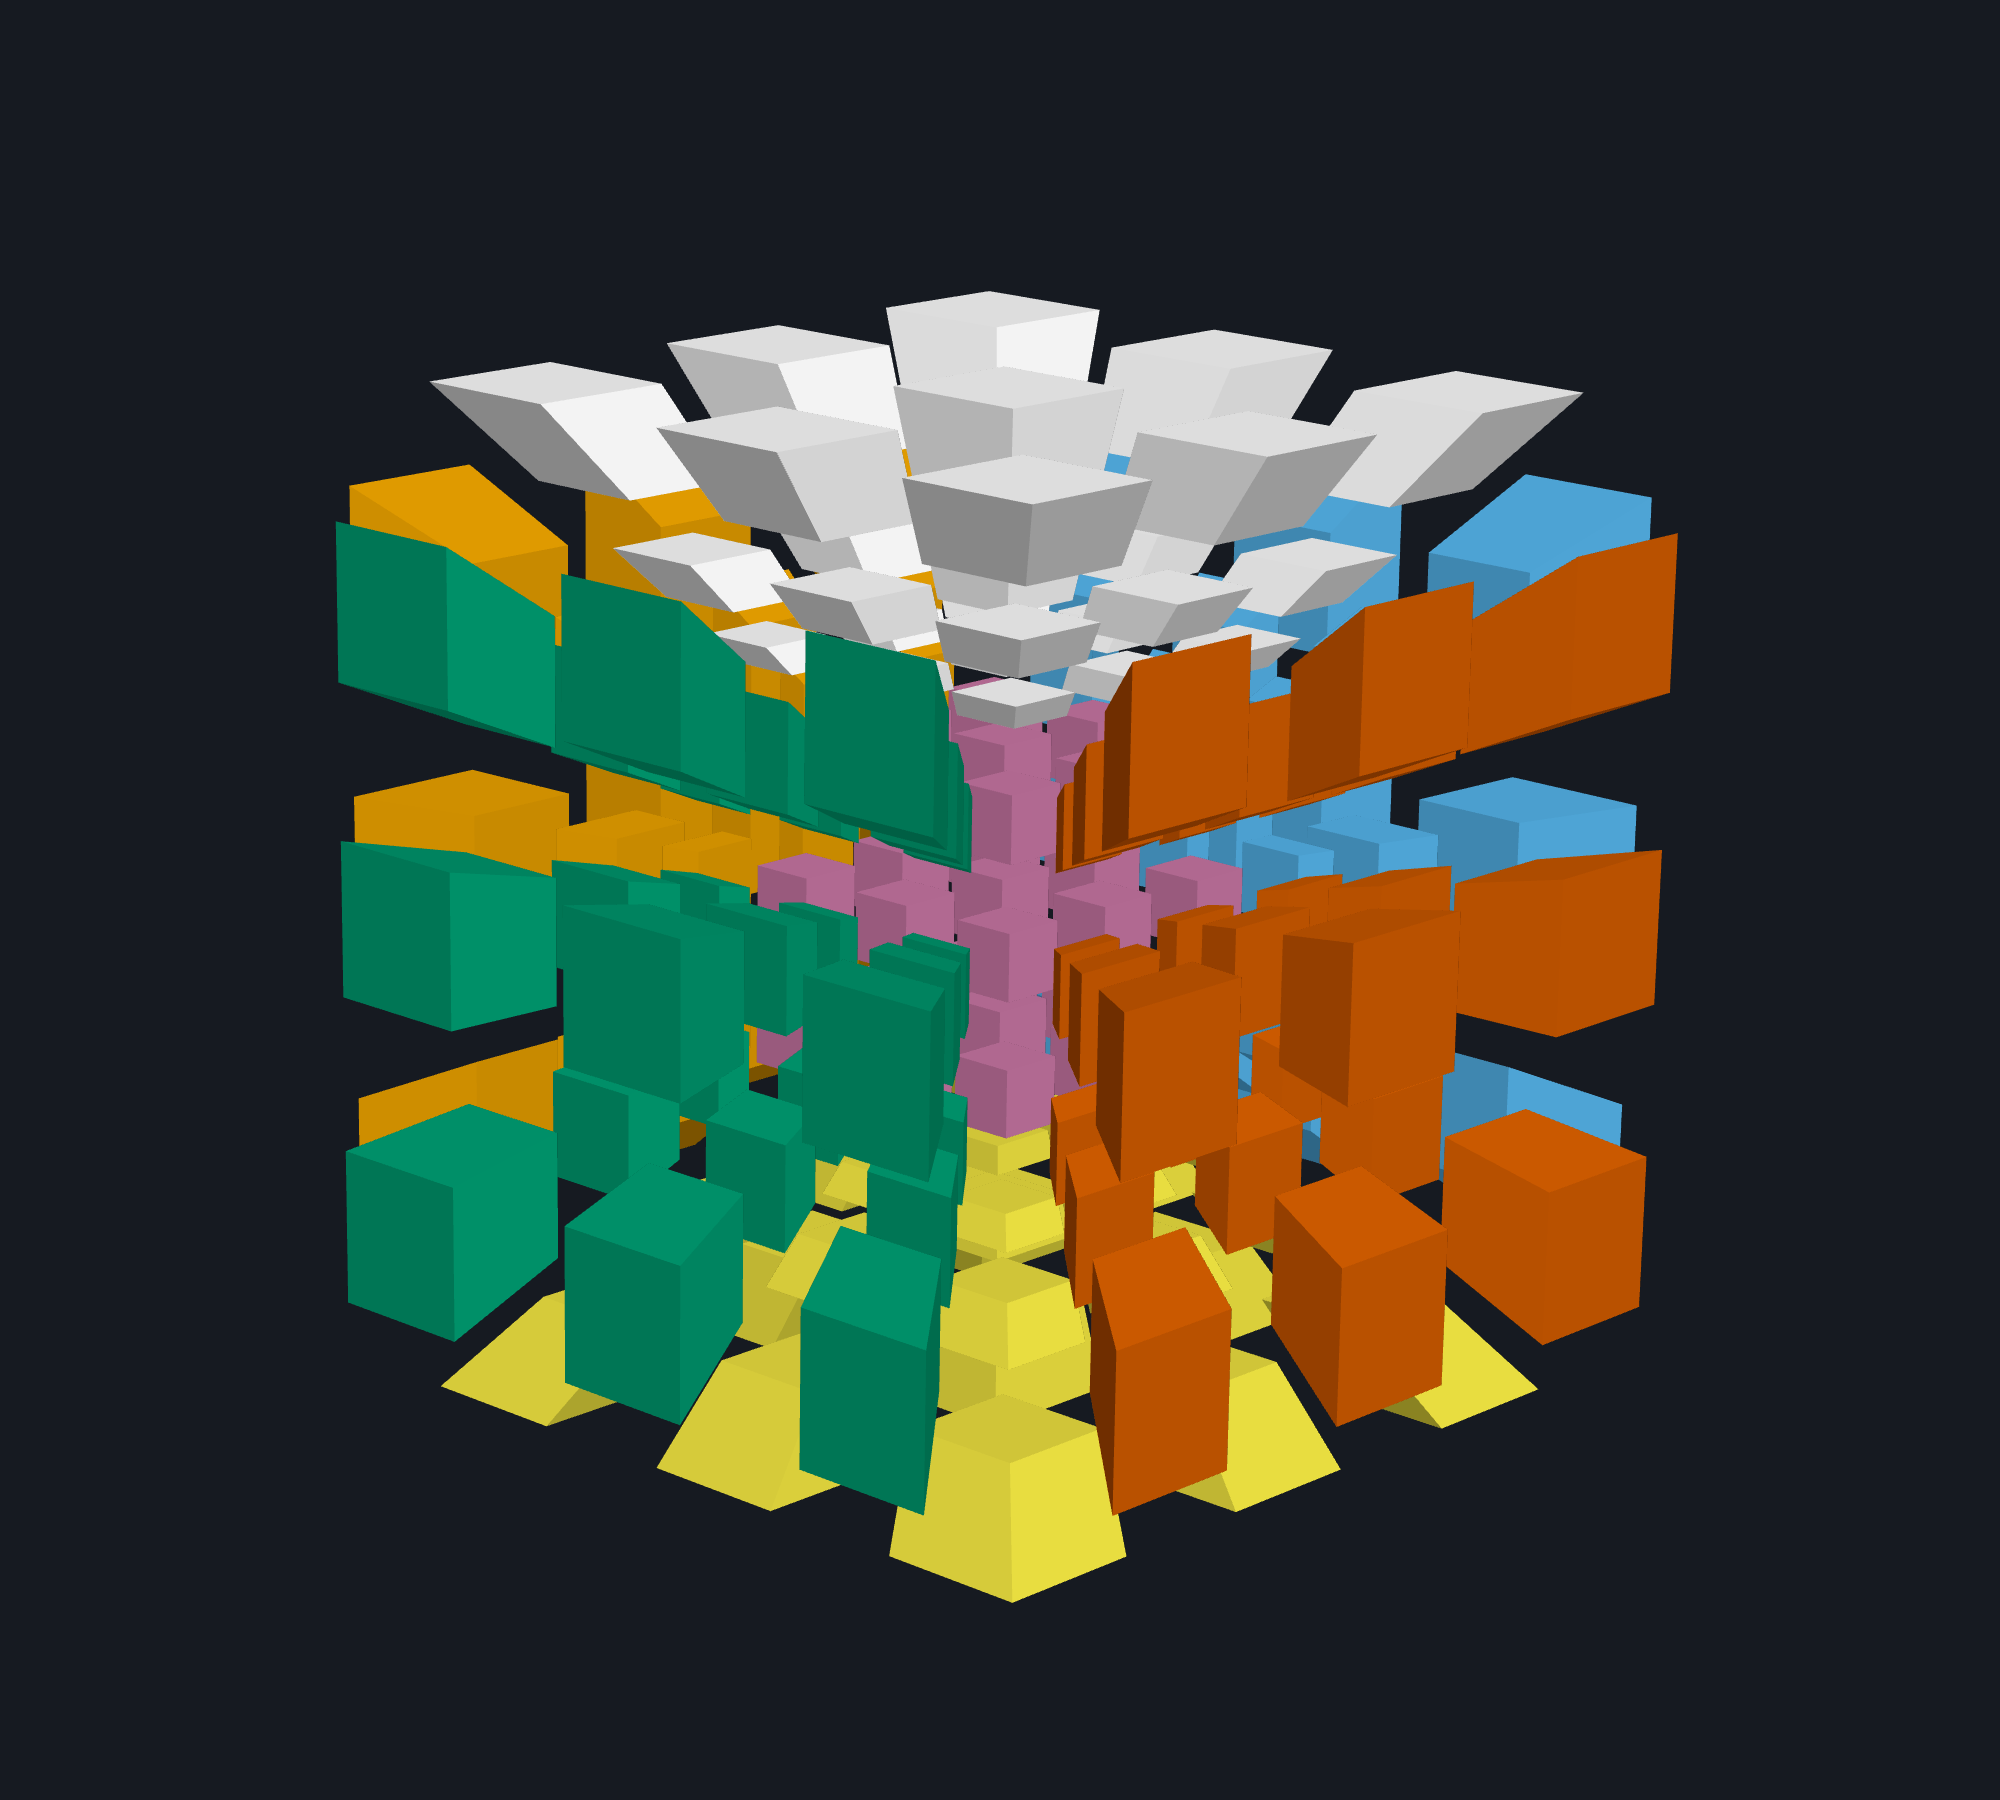
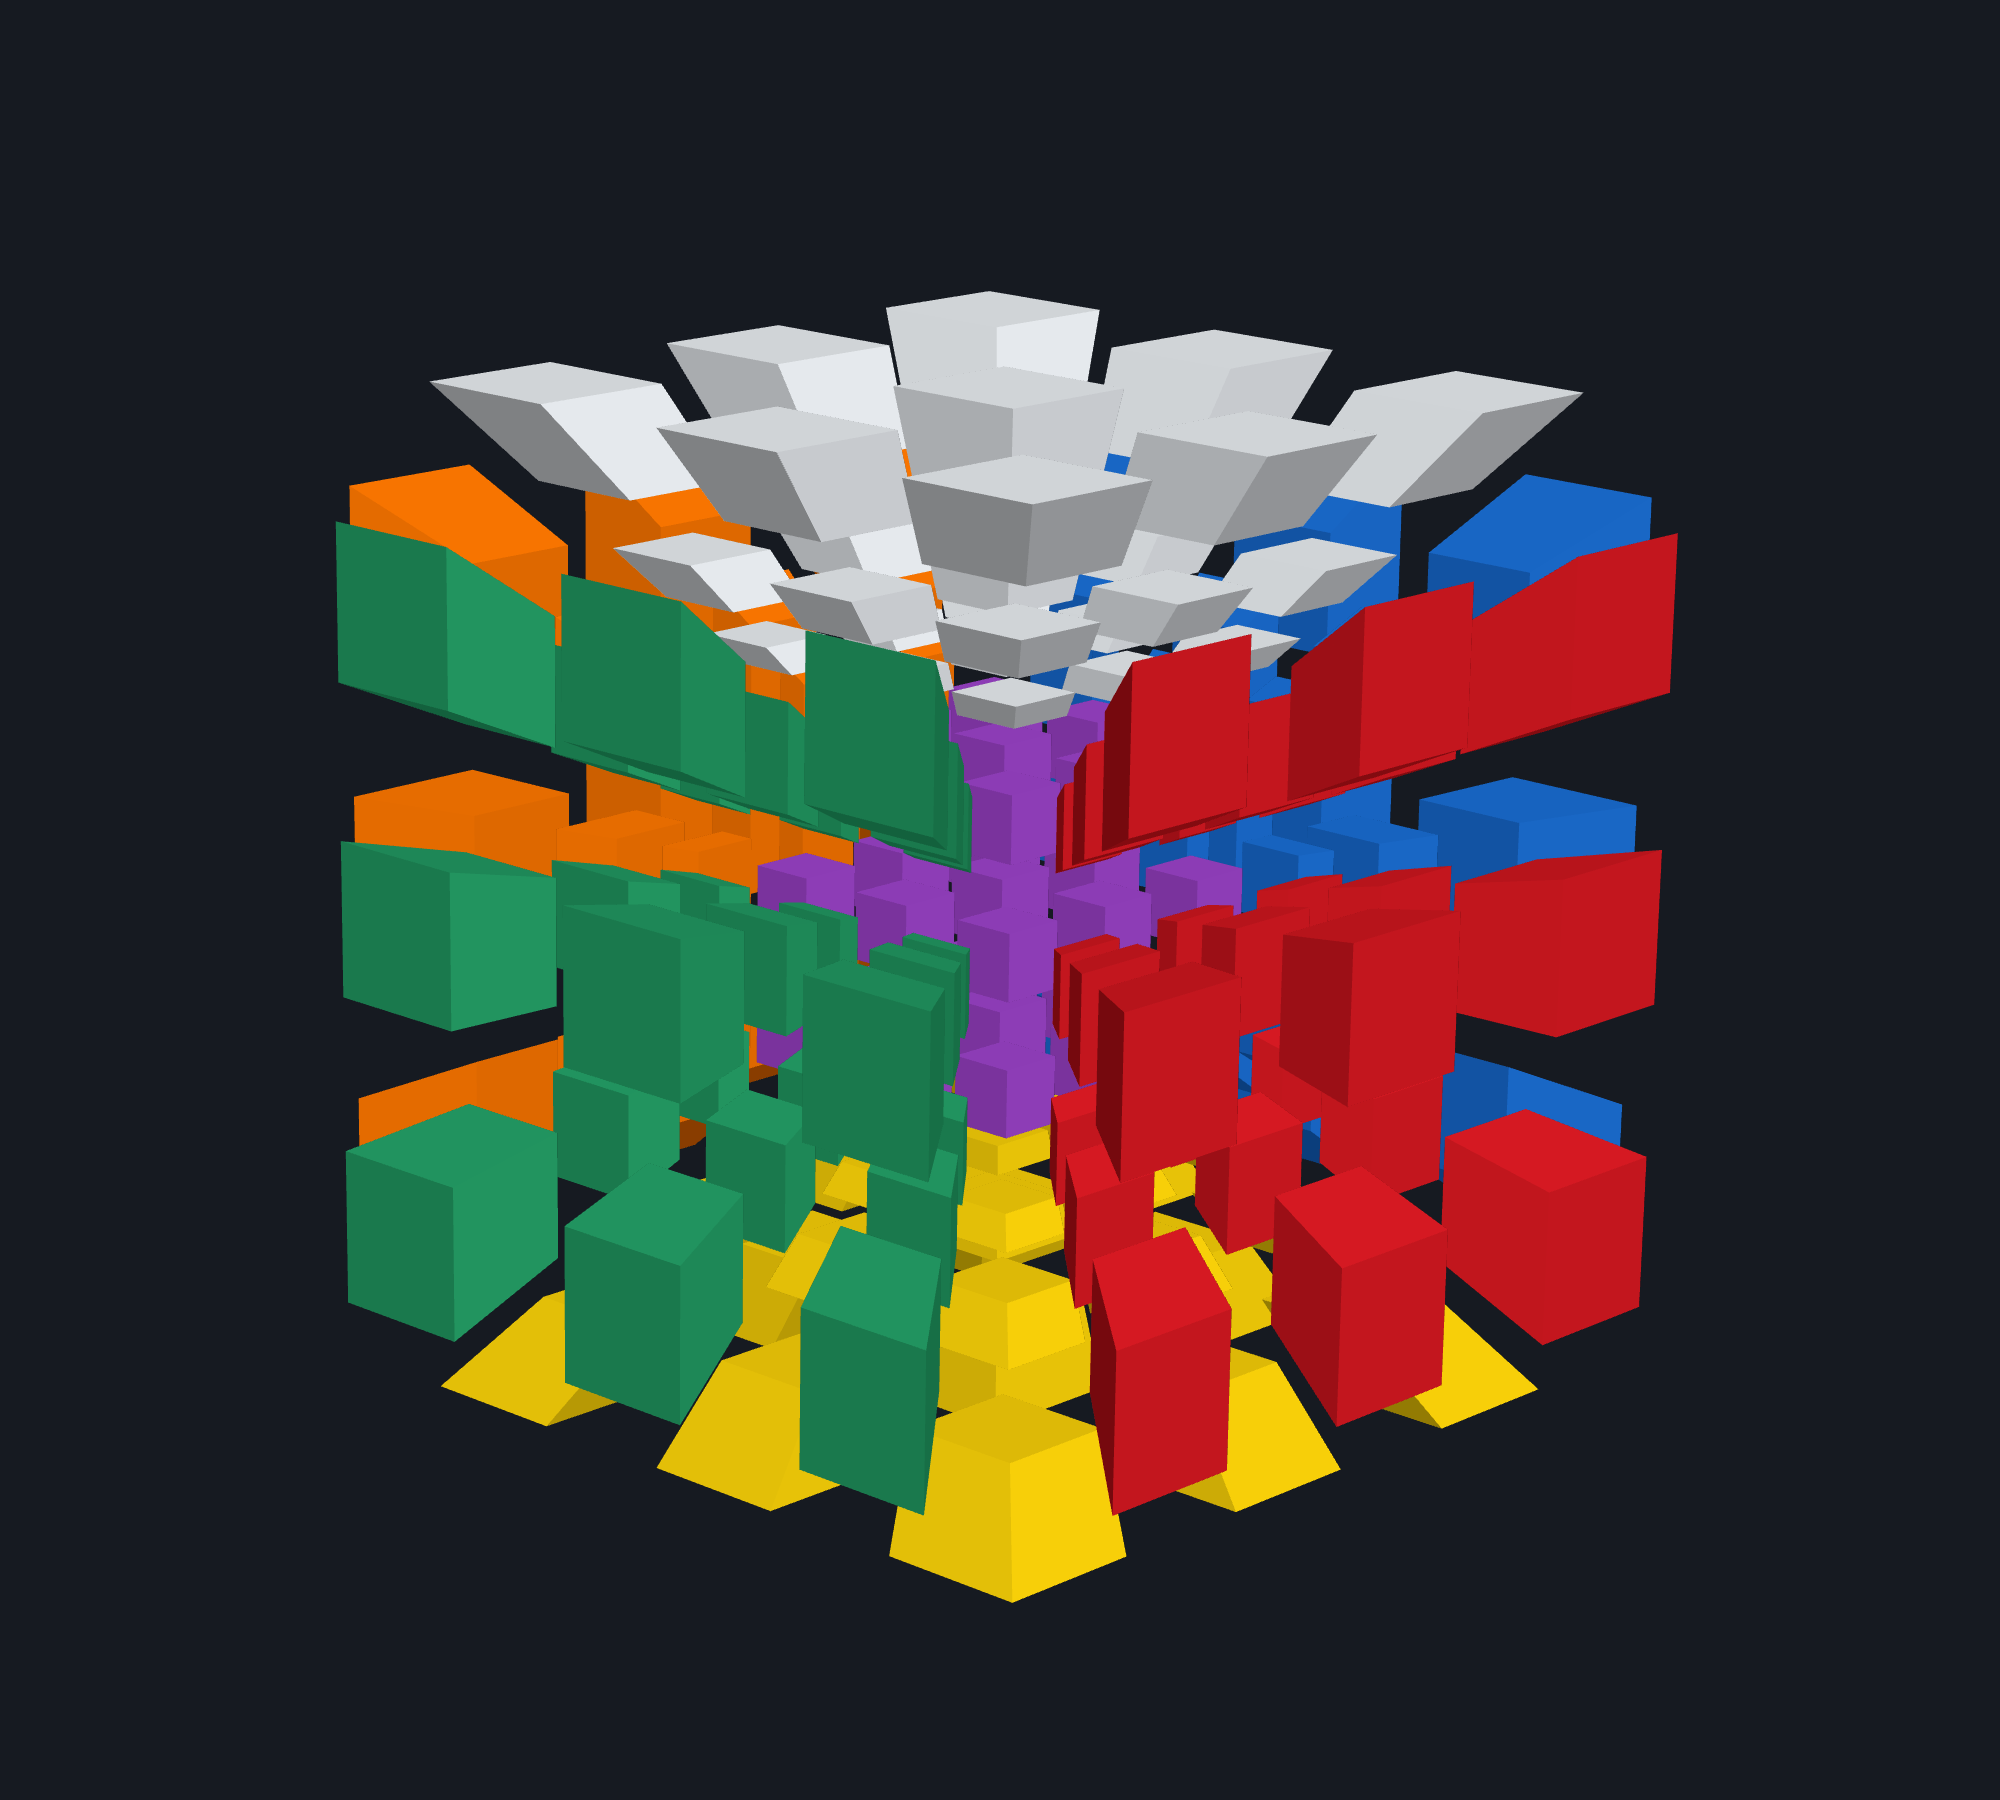
Default to Vivid, and credit the original in the panel
Vivid becomes the default palette and leads the list. Distinct and Classic
stay -- Distinct remains the choice for colour-blind readability.

The panel now says what this is: a modern port, with a link to the original
and credit to Melinda Green and Don Hatch, plus a GitHub link to the source.

The GitHub mark is inlined as a single SVG path rather than pulled from an
icon library. The site is entirely self-contained -- no external requests --
and one path is a few hundred bytes against a few hundred kilobytes.

Changed region(s): [[0.155, 0.2489, 0.837, 0.9022], [0.527, 0.3111, 0.558, 0.3422]]

diff --git a/packages/app/src/App.tsx b/packages/app/src/App.tsx
@@ -55,8 +55,42 @@ export function App() {
       </div>
 
       <aside className="panel">
-        <h1>MagicCube4D</h1>
-        <p className="sub">A four-dimensional Rubik&rsquo;s cube.</p>
+        <header className="masthead">
+          <div>
+            <h1>MagicCube4D</h1>
+            <p className="sub">A four-dimensional Rubik&rsquo;s cube.</p>
+          </div>
+          <a
+            className="icon-link"
+            href="https://github.com/cranmer/cube4d"
+            target="_blank"
+            rel="noopener noreferrer"
+            aria-label="Source code on GitHub"
+            title="Source code on GitHub"
+          >
+            {/* The GitHub mark inlined rather than pulled from an icon library: the whole site is
+                self-contained, and this is one path against a few hundred kilobytes. */}
+            <svg viewBox="0 0 16 16" width="20" height="20" aria-hidden="true">
+              <path
+                fill="currentColor"
+                d="M8 0C3.58 0 0 3.58 0 8c0 3.54 2.29 6.53 5.47 7.59.4.07.55-.17.55-.38
+                   0-.19-.01-.82-.01-1.49-2.01.37-2.53-.49-2.69-.94-.09-.23-.48-.94-.82-1.13-.28-.15-.68-.52-.01-.53.63-.01
+                   1.08.58 1.23.82.72 1.21 1.87.87 2.33.66.07-.52.28-.87.51-1.07-1.78-.2-3.64-.89-3.64-3.95
+                   0-.87.31-1.59.82-2.15-.08-.2-.36-1.02.08-2.12 0 0 .67-.21 2.2.82.64-.18 1.32-.27 2-.27.68
+                   0 1.36.09 2 .27 1.53-1.04 2.2-.82 2.2-.82.44 1.1.16 1.92.08 2.12.51.56.82 1.27.82 2.15 0
+                   3.07-1.87 3.75-3.65 3.95.29.25.54.73.54 1.48 0 1.07-.01 1.93-.01 2.2 0 .21.15.46.55.38A8.01
+                   8.01 0 0 0 16 8c0-4.42-3.58-8-8-8Z"
+              />
+            </svg>
+          </a>
+        </header>
+        <p className="lede">
+          A modern port of{' '}
+          <a href="https://superliminal.com/cube/" target="_blank" rel="noopener noreferrer">
+            the original
+          </a>{' '}
+          by Melinda Green and Don Hatch.
+        </p>
 
         <div className="group">
           <h2>Play</h2>

diff --git a/packages/render/src/colors.ts b/packages/render/src/colors.ts
@@ -76,6 +76,20 @@ const pair = (a: string, b: string): ColorPair => [rgb(a), rgb(b)];
 
 export const PALETTES: readonly Palette[] = [
   {
+    id: 'vivid',
+    name: 'Vivid',
+    note: 'Saturated, with lightness varied so neighbouring hues still separate.',
+    // Hue alone is not enough for eight cells: the shading darkens whatever faces away, which
+    // compresses hues together. So lightness varies within each pair as well.
+    pairs: [
+      pair('#a347d1', '#f06ac9'), // purple / pink
+      pair('#ffd60a', '#f1f5f9'), // yellow / white
+      pair('#26a269', '#1c71d8'), // green / blue
+      pair('#ff7800', '#e01b24'), // orange / red
+    ],
+    background: SLATE,
+  },
+  {
     id: 'distinct',
     name: 'Distinct',
     note: 'Okabe–Ito — stays readable with any common colour vision.',
@@ -88,20 +102,6 @@ export const PALETTES: readonly Palette[] = [
       pair('#f0e442', '#ffffff'), // yellow / white
       pair('#009e73', '#56b4e9'), // bluish green / sky blue
       pair('#e69f00', '#d55e00'), // orange / vermillion
-    ],
-    background: SLATE,
-  },
-  {
-    id: 'vivid',
-    name: 'Vivid',
-    note: 'Saturated, with lightness varied so neighbouring hues still separate.',
-    // Hue alone is not enough for eight cells: the shading darkens whatever faces away, which
-    // compresses hues together. So lightness varies within each pair as well.
-    pairs: [
-      pair('#a347d1', '#f06ac9'), // purple / pink
-      pair('#ffd60a', '#f1f5f9'), // yellow / white
-      pair('#26a269', '#1c71d8'), // green / blue
-      pair('#ff7800', '#e01b24'), // orange / red
     ],
     background: SLATE,
   },
@@ -121,7 +121,7 @@ export const PALETTES: readonly Palette[] = [
   },
 ];
 
-export const DEFAULT_PALETTE_ID = 'distinct';
+export const DEFAULT_PALETTE_ID = 'vivid';
 
 export function paletteById(id: string): Palette {
   return PALETTES.find((p) => p.id === id) ?? PALETTES[0];

diff --git a/packages/app/src/styles.css b/packages/app/src/styles.css
@@ -140,3 +140,23 @@ button:disabled:hover { background: #21262d; }
 .palette .swatches { display: flex; border-radius: 3px; overflow: hidden; flex: none; }
 .palette .swatches i { display: block; width: 9px; height: 16px; }
 .palette .name { font-size: 12.5px; }
+
+.masthead { display: flex; align-items: flex-start; justify-content: space-between; gap: 12px; }
+.masthead .sub { margin-bottom: 0; }
+
+.icon-link {
+  color: var(--dim);
+  display: inline-flex;
+  padding: 3px;
+  border-radius: 6px;
+  flex: none;
+}
+.icon-link:hover { color: var(--text); background: #21262d; }
+
+.lede {
+  font-size: 12.5px;
+  color: var(--dim);
+  margin: 8px 0 18px;
+}
+.lede a { color: #7cb0ff; }
+.lede a:hover { color: #9ec5ff; }
